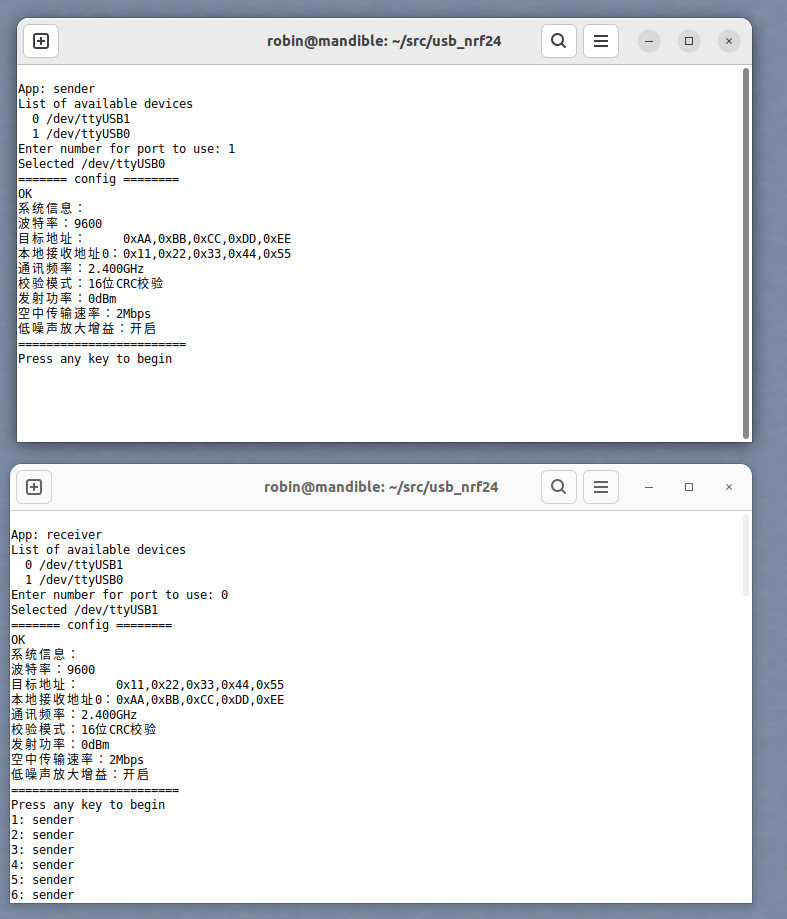
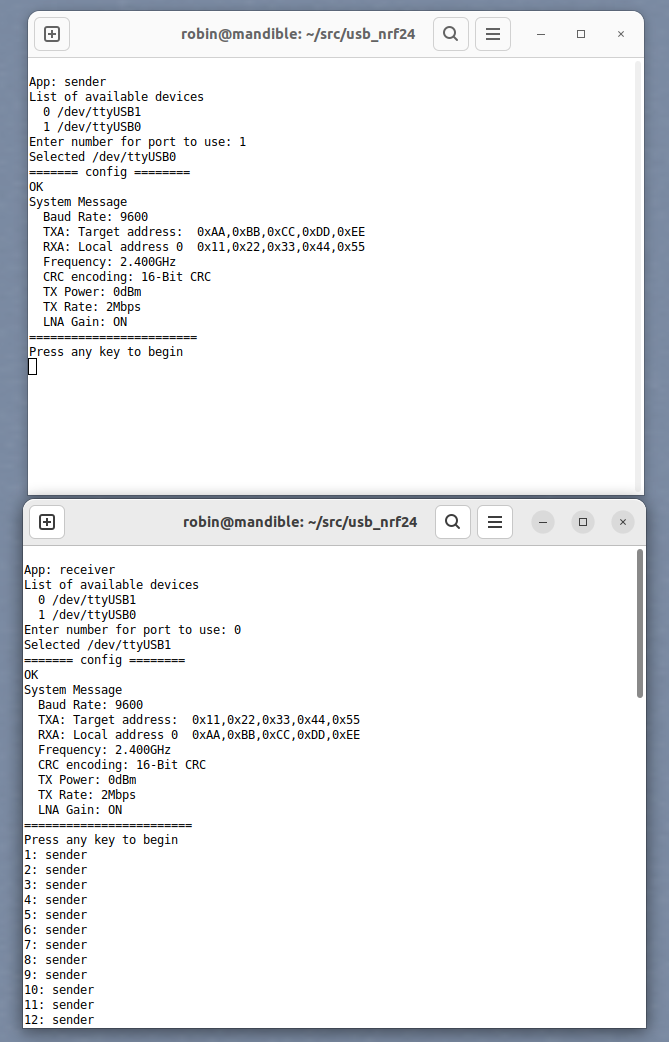
add translate file

Changed region(s): [[0.0, 0.0, 0.9865, 1.0]]

diff --git a/translate.py b/translate.py
@@ -1,0 +1,91 @@
+import time
+import serial
+
+from usb_select import *
+
+def translate_config(ser):
+
+    Lines = []
+
+    ser.write("AT?".encode('gb18030'))
+    time.sleep(0.3)
+
+    while ser.inWaiting() > 0:
+        Lines.append(ser.readline().decode('gb18030').rstrip("\n"))
+
+    for line in Lines:
+
+        header = 'OK'
+        if header in line :
+            print("OK")
+            continue
+
+        header = '系统信息：'
+        if header in line :
+            print("System Message")
+            continue
+
+        header = '波特率：'
+        if header in line :
+            print("  Baud Rate: " + line[4:])
+            continue
+
+        header = '目标地址：'
+        if header in line :
+            print("  TXA: Target address:\t" + line[10:])
+            continue
+
+        header = '本地接收地址0：'
+        if header in line :
+            print("  RXA: Local address 0\t" + line[8:])
+            continue
+
+        header = '通讯频率：'
+        if header in line :
+            print("  Frequency: " + line[5:])
+            continue
+
+        header = '校验模式：'
+        if header in line :
+            print("  CRC encoding: " + line[5:7] + "-Bit CRC")
+            continue
+
+        header = '发射功率：'
+        if header in line :
+            print("  TX Power: " + line[5:])
+            continue
+
+        header = '空中传输速率：'
+        if header in line :
+            print("  TX Rate: " + line[7:])
+            continue
+
+        header = '低噪声放大增益：'
+        if header in line :
+            if '开启' in  line[8:] :
+                state = "ON"
+            else:
+                state = "OFF"
+            print("  LNA Gain: " + state)
+            continue
+
+if __name__ == "__main__":
+
+    Port = port_selector()
+    if Port == None :
+        pass
+
+    # Configure the serial connections 
+    ser = serial.Serial(
+        port=Port,
+        baudrate=9600,
+        parity=serial.PARITY_NONE,
+        stopbits=serial.STOPBITS_ONE,
+        bytesize=serial.EIGHTBITS
+    )
+
+    ser.isOpen()
+
+    print("\nPort: " + Port)
+
+    translate_config(ser)

diff --git a/usb_receive.py b/usb_receive.py
@@ -2,6 +2,7 @@ import time
 import serial
 
 from usb_select import *
+from translate import *
 
 def main():
 
@@ -42,10 +43,7 @@ def main():
 
     print("======= config ========")
 
-    ser.write("AT?".encode('gb18030'))
-    time.sleep(0.3)
-    while ser.inWaiting() > 0:
-        print(ser.read_until().decode('gb18030').rstrip("\n"))
+    translate_config(ser)
 
     print("========================")
 

diff --git a/usb_send.py b/usb_send.py
@@ -2,6 +2,7 @@ import time
 import serial
 
 from usb_select import *
+from translate import *
 
 def main():
 
@@ -42,10 +43,7 @@ def main():
 
     print("======= config ========")
 
-    ser.write("AT?".encode('gb18030'))
-    time.sleep(0.3)
-    while ser.inWaiting() > 0:
-        print(ser.readline().decode('gb18030').rstrip("\n"))
+    translate_config(ser)
 
     print("========================")
 
